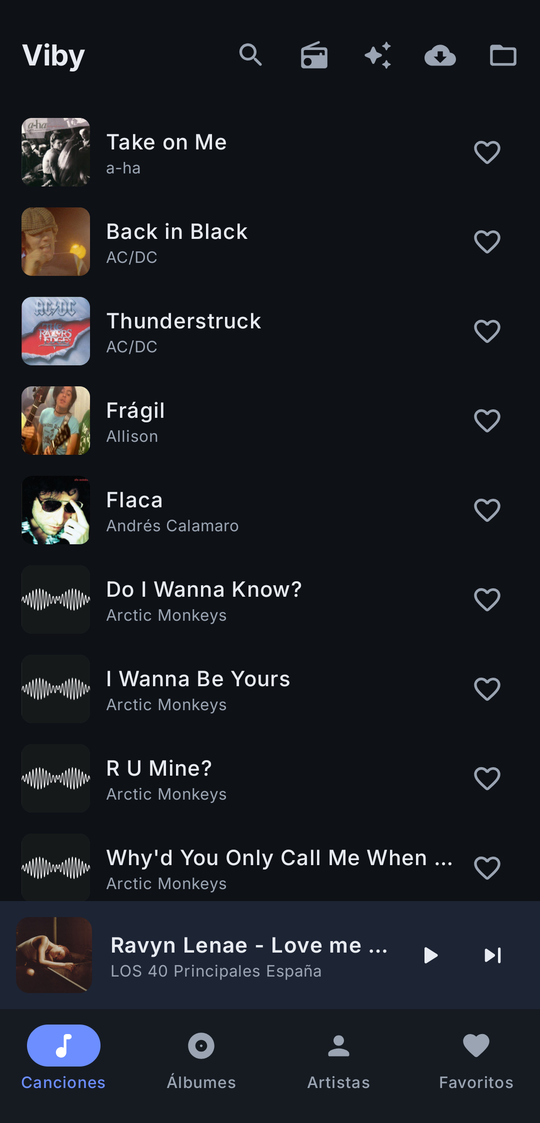
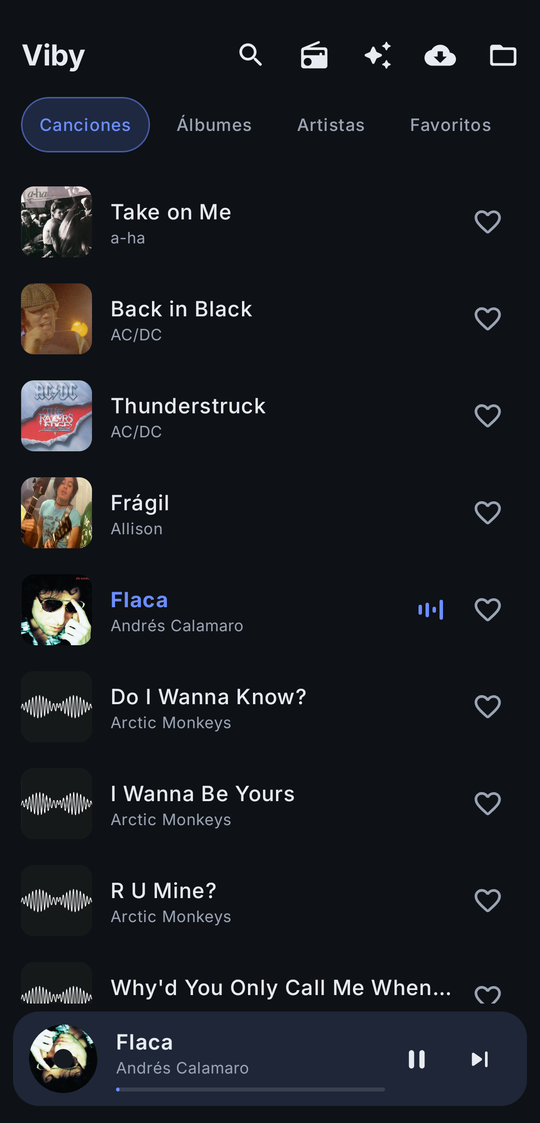
README: capturas y funciones al día
Capturas nuevas tomadas de la app de release ya instalada, no de la de
pruebas. Se documentan las funciones que faltaban: el color extraido de
la caratula, las barras de nivel en la cancion en curso, el disco que
gira en el mini reproductor, "A continuacion" y el acceso a la salida de
audio. Al stack entran Palette e iTunes Search.

diff --git a/README.md b/README.md
@@ -14,12 +14,16 @@ descubrir y descargar canciones nuevas desde la propia app.
 ## Qué hace
 
 - **Reproductor** con cola, aleatorio real, repetir, búsqueda y favoritos.
-- **Pantalla "Reproduciendo"** a pantalla completa, arrastrable (sube/baja siguiendo el dedo),
-  con carátula grande y fondo desenfocado.
-- **Navegación por pestañas**: Canciones · Álbumes · Artistas · Favoritos.
+- **Pantalla "Reproduciendo"** a pantalla completa, arrastrable (sube/baja siguiendo el dedo).
+  **El color sale de la carátula**: acento y fondo se extraen de la portada que suena y
+  cambian con cada canción, con transición suave. Incluye "A continuación" y acceso al
+  selector de salida de audio del sistema.
+- **Navegación por pestañas** en la cabecera: Canciones · Álbumes · Artistas · Favoritos.
+  La canción en curso se marca con barras de nivel animadas, que se congelan al pausar.
 - **Notificación y pantalla bloqueada** con carátula (Media3 / ExoPlayer).
 - **Ecualizador** integrado.
 - **Reanuda** donde te quedaste y recuerda aleatorio/repetir.
+- **Mini reproductor** con la carátula como disco que gira mientras suena y se detiene al pausar.
 - **Descargas** integradas (NewPipeExtractor): busca, escucha un preview, descarga a
   `Artista/Álbum/Título.m4a` con tags ID3 + carátula (enriquecido con MusicBrainz),
   en segundo plano con notificación de progreso y sin duplicados.
@@ -33,7 +37,8 @@ descubrir y descargar canciones nuevas desde la propia app.
 ## Stack
 
 Kotlin · Jetpack Compose (Material 3) · Media3/ExoPlayer · Coil · Glance (widget) ·
-NewPipeExtractor · jaudiotagger · MusicBrainz · Radio Browser · minSdk 26 · targetSdk 36.
+Palette (color desde la carátula) · NewPipeExtractor · jaudiotagger · MusicBrainz ·
+Radio Browser · iTunes Search (carátulas de radio) · minSdk 26 · targetSdk 36.
 
 ## Compilar
 
